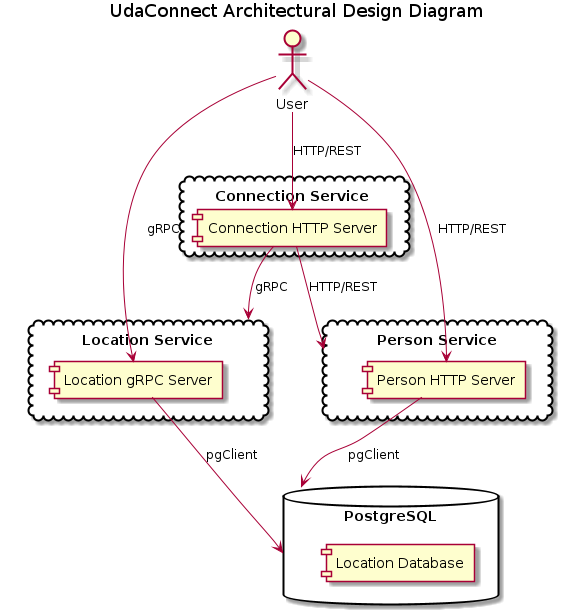
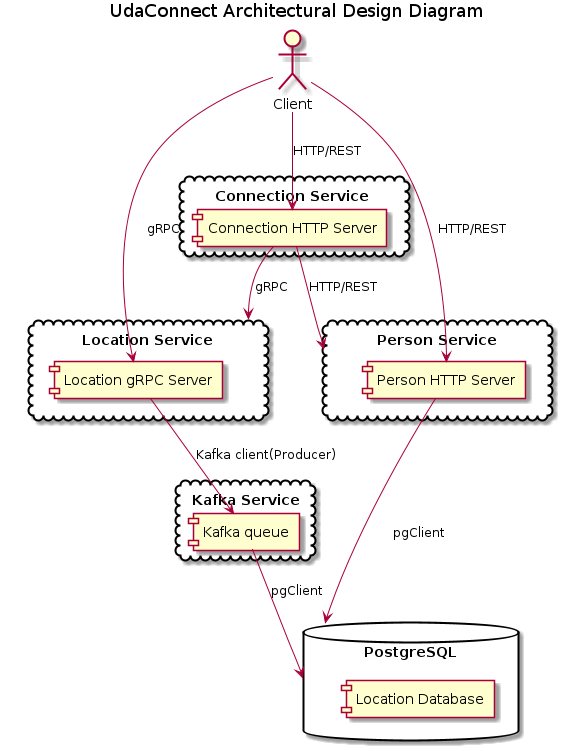
Implement Kafka and refactor

Changed region(s): [[0.0302, 0.0, 0.9964, 1.0], [0.4227, 0.8033, 0.4529, 0.8341], [0.302, 0.1545, 0.3321, 0.1854]]

diff --git a/modules/location_grpc_server/app/udaconnect/services.py b/modules/location_grpc_server/app/udaconnect/services.py
@@ -2,12 +2,12 @@ import logging
 from datetime import datetime, timedelta
 from typing import Dict, List
 
+from kafka import KafkaProducer, KafkaConsumer
+
 import time
 from concurrent import futures
 
-import models
-from modules.api.app.udaconnect.models import Location
-import schemas
+from models import Location
 from geoalchemy2.functions import ST_AsText, ST_Point
 from sqlalchemy.sql import text
 
@@ -18,6 +18,13 @@ from flask_sqlalchemy import SQLAlchemy
 
 db = SQLAlchemy()
 
+TOPIC_NAME = 'items'
+KAFKA_SERVER = 'localhost:9092'
+
+
+producer = KafkaProducer(bootstrap_servers=KAFKA_SERVER)
+consumer = KafkaConsumer(TOPIC_NAME)
+
 logging.basicConfig(level=logging.WARNING)
 logger = logging.getLogger("udaconnect-location-api")
 
@@ -25,8 +32,8 @@ class LocationService:
 
     def Get(self, request, context):
         location, coord_text = (
-            db.session.query(models.Location, models.Location.coordinate.ST_AsText())
-            .filter(models.Location.id == request.location_id)
+            db.session.query(Location, Location.coordinate.ST_AsText())
+            .filter(Location.id == request.location_id)
             .one()
         )
         location.wkt_shape = coord_text
@@ -52,13 +59,14 @@ class LocationService:
             "coordinate": ST_Point(request.longitude, request.latitude),
             "creation_time": request.creation_time
         }
-        db.session.add(new_location)
-        db.session.commit()
+        producer.send(TOPIC_NAME, new_location)
+        producer.flush()
         return location_pb2.LocationMessage(**new_location)
 
 
 if __name__ == "__main__":
-# Initialize gRPC server
+   
+    # Initialize gRPC server
     server = grpc.server(futures.ThreadPoolExecutor(max_workers=2))
     location_pb2_grpc.add_LocationServiceServicer_to_server(LocationService(), server)
 
@@ -69,6 +77,9 @@ if __name__ == "__main__":
     # Keep thread alive
     try:
         while True:
+            for location in consumer:
+                db.session.add(location)
+                db.session.commit()
             time.sleep(86400)
     except KeyboardInterrupt:
-        server.stop(0)
+        server.stop(0)    

diff --git a/modules/connection_rest_server/app/udaconnect/controllers.py b/modules/connection_rest_server/app/udaconnect/controllers.py
@@ -1,13 +1,12 @@
 from datetime import datetime
 
-from app.udaconnect.models import Person
-from app.udaconnect.schemas import (
+from models import Person
+from models import (
     ConnectionSchema,
-    PersonSchema,
 )
 from app.udaconnect.services import ConnectionService, PersonService
 from flask import request
-from flask_accepts import accepts, responds
+from flask_accepts import responds
 from flask_restx import Namespace, Resource
 from typing import Optional, List
 

diff --git a/modules/models/schemas.py b/modules/models/schemas.py
@@ -1,4 +1,4 @@
-from app.udaconnect.models import Connection, Location, Person
+from models import Location, Person
 from geoalchemy2.types import Geometry as GeometryType
 from marshmallow import Schema, fields
 from marshmallow_sqlalchemy.convert import ModelConverter as BaseModelConverter

diff --git a/modules/connection_rest_server/app/udaconnect/services.py b/modules/connection_rest_server/app/udaconnect/services.py
@@ -3,7 +3,7 @@ from datetime import datetime, timedelta
 from typing import Dict, List
 
 from app import db
-from app.udaconnect.models import Connection, Location, Person
+from models import Connection, Location, Person
 from sqlalchemy.sql import text
 
 import grpc

diff --git a/modules/person_rest_service/app/udaconnect/services.py b/modules/person_rest_service/app/udaconnect/services.py
@@ -3,7 +3,7 @@ from datetime import datetime, timedelta
 from typing import Dict, List
 
 from app import db
-from app.udaconnect.models import Person
+from models import Person
 from sqlalchemy.sql import text
 
 logging.basicConfig(level=logging.WARNING)

diff --git a/modules/person_rest_service/app/udaconnect/controllers.py b/modules/person_rest_service/app/udaconnect/controllers.py
@@ -1,7 +1,7 @@
 from datetime import datetime
 
-from app.udaconnect.models import Person
-from app.udaconnect.schemas import (
+from models import Person
+from models import (
     PersonSchema,
 )
 from app.udaconnect.services import PersonService
